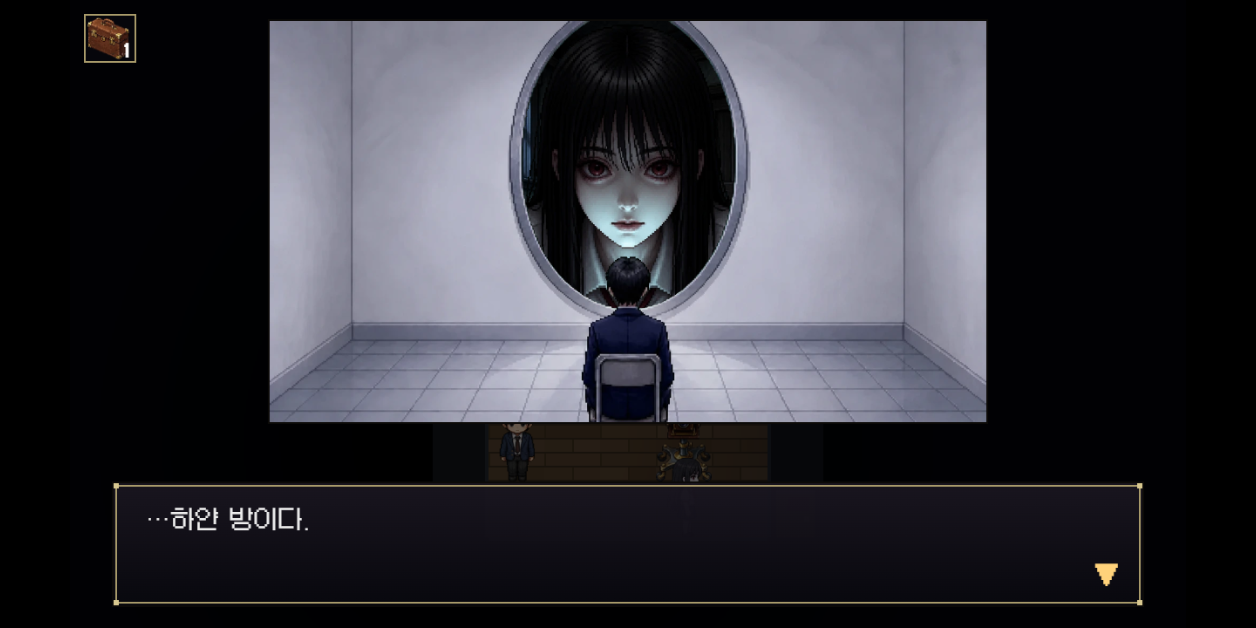
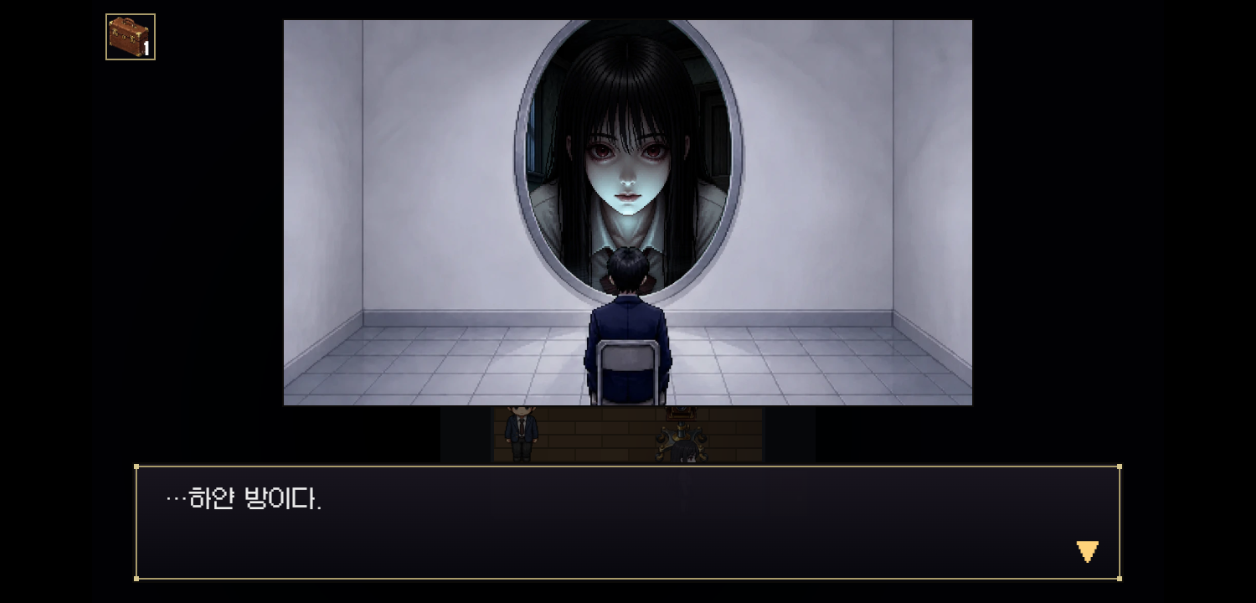
feat: 5장 별실 다듬기 (차례대로 움직임, 찢기 효과, 창 너머 윤하, 깨진 글씨 종이, 새 졸업사진)
- 주인공 → 사진기 → 윤하 순서로 한 번에 하나씩 움직임
- 간은 졸업사진이 나올 때 함께 떨어지고, 풀려난 뒤 직접 줍는다
- 찢기: 비스듬한 톱니 선을 따라 위에서부터 벌어지고 종이 속살 테두리가 보임
- 창 너머 윤하: 몸을 일으켜 돌아서서 방 안쪽으로 걸어가고, 걸어와서 다시 들여다봄
- 풀려난 뒤 윤하에게 묻기 → 주의사항 아랫부분이 깨진 글씨로 보임 (paper 미니게임)
- 졸업사진을 새 그림으로 바꾸고 제목과 이름을 명조체로, 크게 띄워 천천히 내려옴
- 기획: design/game-brief.md M9

diff --git a/src/minigames/ch5.js b/src/minigames/ch5.js
@@ -1,4 +1,4 @@
-// 5장 별실 (M9). 차례제 카메라, 큰 그림 보기와 찢기, 아이템 카드(설명과 회상).
+// 5장 별실 (M9). 차례제 카메라, 큰 그림 보기와 찢기, 아이템 카드(설명과 회상), 깨진 글씨 종이, 흰 방의 타원 창.
 // 경로와 문구 위치는 data/puzzles.json 의 m9, 글은 data/notes.json 에 있다. 기획: design/game-brief.md M9
 import { D, S, settings, T, VW, VH } from '../engine/core.js';
 import { pressed, consume, lastDir } from '../engine/input.js';
@@ -8,22 +8,46 @@ import { sfx } from '../engine/audio.js';
 import { W, DIRS, blocked, walk, npcById, scenes } from '../engine/world.js';
 import { pic } from '../engine/gfx.js';
 
+const smooth = k => k * k * (3 - 2 * k), clamp = k => Math.min(1, Math.max(0, k));
+const rnd = i => { const s = Math.sin(i * 127.1 + 3.3) * 43758.5453; return s - Math.floor(s); }; // 순서마다 늘 같은 값이 나오는 난수
+
 // 흰 방의 타원 창 너머 (cam_frame 그림의 투명한 타원 밑에 깔린다): 별실 배경 위에 윤하를 얹는다.
-// stare 빤히 들여다봄, away 옆으로 걸어 나감, back 돌아옴. 자리와 크기는 puzzles.m9.window
+// stare 빤히 들여다봄, away 몸을 일으켜 돌아서서 방 안쪽으로 걸어감, back 걸어와서 다시 들여다봄. 자리와 크기는 puzzles.m9.window
+const yunCache = {};
+function yunSprite(dark) { // 앞모습과, 돌아선 뒤의 어두운 뒷모습. 아래쪽은 귀신답게 흐려진다
+  const img = pic(D.puzzles.m9.window.yunha), key = dark ? 'd' : 'f';
+  if (!img) return null;
+  if (yunCache[key]) return yunCache[key];
+  const c = Object.assign(document.createElement('canvas'), { width: img.width, height: img.height }), g = c.getContext('2d');
+  g.drawImage(img, 0, 0);
+  if (dark) { // 뒷모습: 얼굴과 가슴을 긴 머리로 덮고, 양쪽 소매만 남긴다
+    const w = c.width, h = c.height;
+    g.globalCompositeOperation = 'source-atop'; g.fillStyle = '#0d0c12';
+    g.beginPath(); g.ellipse(w * 0.5, h * 0.3, w * 0.36, h * 0.36, 0, 0, 7); g.fill(); g.fillRect(w * 0.2, h * 0.3, w * 0.6, h);
+    g.fillStyle = '#1b1922'; for (let i = 0; i < 26; i++) g.fillRect(w * (0.22 + rnd(i) * 0.56), h * (0.12 + rnd(i + 40) * 0.2), 2, h * (0.3 + rnd(i + 80) * 0.5)); // 머리카락 결
+  }
+  g.globalCompositeOperation = 'destination-out';
+  const gr = g.createLinearGradient(0, c.height * 0.68, 0, c.height); gr.addColorStop(0, 'rgba(0,0,0,0)'); gr.addColorStop(1, 'rgba(0,0,0,1)');
+  g.fillStyle = gr; g.fillRect(0, c.height * 0.68, c.width, c.height * 0.32);
+  return (yunCache[key] = c);
+}
 function camWindow(phase) {
   return (ctx, x, y, w, h, t) => {
-    const o = D.puzzles.m9.window, room = pic(o.room), yun = pic(o.yunha);
+    const o = D.puzzles.m9.window, room = pic(o.room);
     const ox = x + w * o.box[0], oy = y + h * o.box[1], ow = w * o.box[2], oh = h * o.box[3];
     ctx.save(); ctx.beginPath(); ctx.rect(ox, oy, ow, oh); ctx.clip();
     ctx.fillStyle = '#0a0c12'; ctx.fillRect(ox, oy, ow, oh);
     if (room) { const k = Math.max(ow / room.width, oh / room.height); ctx.drawImage(room, ox + (ow - room.width * k) / 2, oy + (oh - room.height * k) / 2, room.width * k, room.height * k); }
-    if (yun) {
-      const e = k => k * k * (3 - 2 * k), go = Math.min(1, t / o.walk); // 걸어 나가거나 들어오는 정도
-      const off = phase === 'away' ? e(go) : phase === 'back' ? 1 - e(go) : 0, walking = phase !== 'stare' && go < 1;
-      const lean = phase === 'stare' ? Math.min(1, t / 6) * 0.06 : 0; // 들여다볼수록 조금씩 다가온다
-      const yh = oh * o.size * (1 + lean - off * 0.25), yw = yh * yun.width / yun.height;
-      const bob = walking ? Math.abs(Math.sin(t * 7)) * oh * 0.03 : Math.sin(t * 1.6) * oh * 0.006;
-      if (off < 1) ctx.drawImage(yun, ox + ow / 2 - yw / 2 + off * ow * 1.1, oy + oh * o.top - lean * oh * 0.3 + off * oh * 0.12 + bob, yw, yh);
+    const go = clamp(t / o.walk), u = phase === 'away' ? go : phase === 'back' ? 1 - go : 0; // 0 코앞, 1 방 안쪽으로 사라짐
+    const seg = (a, b) => smooth(clamp((u - a) / (b - a)));
+    const rise = seg(0, 0.2), turn = seg(0.18, 0.36), far = seg(0.32, 1); // 몸을 일으킴 → 돌아섬 → 걸어감
+    const spr = yunSprite(turn > 0.5);
+    if (spr && u < 1) {
+      const lean = phase === 'stare' ? Math.min(1, t / 6) * 0.05 : 0; // 들여다볼수록 조금씩 다가온다
+      const yh = oh * o.size * (1 + lean) * (1 - 0.14 * rise) * (1 - 0.62 * far), yw = yh * spr.width / spr.height * Math.abs(Math.cos(turn * Math.PI));
+      const step = far > 0 && far < 1 ? Math.abs(Math.sin(far * o.steps * Math.PI)) * oh * 0.03 * (1 - 0.6 * far) : Math.sin(t * 1.6) * oh * 0.005;
+      ctx.globalAlpha = 1 - seg(0.86, 1);
+      ctx.drawImage(spr, ox + ow * (0.5 + o.to[0] * far) - yw / 2, oy + oh * (o.top - 0.05 * rise - lean * 0.3 + o.to[1] * far) - step, yw, yh);
     }
     ctx.restore();
   };
@@ -39,9 +63,9 @@ export function stepsBetween([x0, y0], [x1, y1]) {
   return (x1 > x0 ? 'r' : x1 < x0 ? 'l' : '') + (y1 > y0 ? 'd' : y1 < y0 ? 'u' : '');
 }
 
-// 차례제 카메라 (M9). 주인공이 한 칸 움직일 때마다 윤하와 사진기도 정해진 길로 한 칸 움직인다.
+// 차례제 카메라 (M9). 주인공이 한 칸 움직이면, 사진기가 정해진 길로 한 칸, 그다음 윤하가 한 칸 움직인다 (한 번에 하나씩).
 // 돌려주는 값: 0 사진기가 마지막 칸에 도착함, 1 도중에 주인공이 사진기와 같은 칸에 섬
-// puzzles: camera [[x,y]…], yunha [[x,y]…], camId, yunhaId, headAt(사진기 길에서 머리가 찍히는 순서), liverAt(윤하 길에서 간을 줍는 순서)
+// puzzles: camera [[x,y]…], yunha [[x,y]…], camId, yunhaId, headAt(사진기 길에서 머리가 찍히는 순서)
 minigames.photo = c => open(done => {
   const pz = D.puzzles[c.puzzle], p = W.p;
   const cam = W.objs.find(o => o.id === pz.camId), yun = npcById(pz.yunhaId);
@@ -50,22 +74,23 @@ minigames.photo = c => open(done => {
   if (yun) Object.assign(yun, { x: pz.yunha[0][0], y: pz.yunha[0][1], moving: false, path: null });
 
   const flashShot = () => { sfx('shutter'); W.flashColor = '#fff'; W.flash = settings.scare ? 0.35 : 0.15; };
+  const pause = ms => new Promise(r => setTimeout(r, ms));
 
   async function step(dir) {
     acting = true;
     const [dx, dy] = DIRS[dir], onCam = p.x + dx === cam.x && p.y + dy === cam.y;
-    const moves = [walk(p, dir[0])];
+    await walk(p, dir[0]);
     if (!onCam) { // 사진기가 있는 칸으로 들어가면 그 자리에서 찍힌다. 사진기와 윤하는 움직이지 않는다
       turn++;
-      const y0 = pz.yunha[turn - 1], y1 = pz.yunha[turn];
-      if (yun && y1) { const s = stepsBetween(y0, y1); moves.push(walk(yun, s, 4 * s.length)); }
       const c1 = pz.camera[turn];
-      if (c1) { tween = { from: [cam.x, cam.y], to: c1, t: 0 }; moves.push(new Promise(r => (tween.done = r))); sfx('step'); }
+      if (c1) { await pause(pz.gap); sfx('wheel'); await new Promise(r => (tween = { from: [cam.x, cam.y], to: c1, t: 0, done: r })); }
+      if (!(p.x === cam.x && p.y === cam.y)) {
+        const y0 = pz.yunha[turn - 1], y1 = pz.yunha[turn];
+        if (yun && y1) { await pause(pz.gap); const s = stepsBetween(y0, y1); await walk(yun, s, 4 * s.length); }
+      }
     }
-    await Promise.all(moves);
     if (p.x === cam.x && p.y === cam.y) { flashShot(); return done(1); }
     if (turn === pz.headAt && !S.flags.c5_head) { flashShot(); S.flags.c5_head = 1; await say(T('@c5.headShot')); }
-    if (turn === pz.liverAt && !S.flags.c5_liver) { S.flags.c5_liver_y = 1; await say(T('@c5.liverPick')); }
     if (turn >= pz.camera.length - 1) return done(0);
     acting = false;
   }
@@ -74,9 +99,10 @@ minigames.photo = c => open(done => {
     kind: 'photo', pause: false, // 걷는 모습이 보이게 필드는 계속 돈다
     update(dt) {
       if (tween) {
-        tween.t = Math.min(1, tween.t + dt * 4);
-        cam.x = tween.from[0] + (tween.to[0] - tween.from[0]) * tween.t;
-        cam.y = tween.from[1] + (tween.to[1] - tween.from[1]) * tween.t;
+        tween.t = Math.min(1, tween.t + dt * 3);
+        const k = smooth(tween.t);
+        cam.x = tween.from[0] + (tween.to[0] - tween.from[0]) * k;
+        cam.y = tween.from[1] + (tween.to[1] - tween.from[1]) * k;
         if (tween.t >= 1) { [cam.x, cam.y] = tween.to; const r = tween.done; tween = null; r(); }
       }
       if (acting) return;
@@ -95,33 +121,46 @@ minigames.photo = c => open(done => {
   };
 });
 
-// 큰 그림 한 장을 화면 가득 보여 준다. c.photo 면 puzzles 의 photo 설정대로 주인공 이름을 얹고(졸업사진),
-// c.tear 면 그림이 세로로 찢어지며 닫힌다. 아니면 Space 로 닫는다
+// 큰 그림 한 장을 화면 가득 보여 준다. c.photo 면 puzzles 의 photo 설정대로 제목과 이름을 얹고(졸업사진),
+// c.scene 이면 그림의 투명한 곳 밑에 장면을 깔고, c.tear 면 그림이 비스듬히 찢어지며 닫힌다. 아니면 Space 로 닫는다
+const SERIF = '"Batang","AppleMyungjo","Noto Serif KR","Nanum Myeongjo",serif';
+const GARBLE = '렜귪봑궯뤏귑궬궠궔갃뷁쉛뛣';
 minigames.bigpic = c => open(done => {
   const ph = c.photo ? D.puzzles[c.photo].photo : null;
-  let t = 0, tearT = -1, cv = null;
-  const edge = Array.from({ length: 15 }, (_, i) => 0.5 + (i % 2 ? 0.035 : -0.035) + Math.sin(i * 12.9898) * 0.012); // 찢어지는 선 (가로 비율)
+  let t = 0, tearT = -1, cv = null, ripped = false;
+  // 찢어지는 선: 오른쪽 위에서 왼쪽 아래로. 큰 굴곡에 잔 톱니를 얹는다 (가로, 세로 비율)
+  const N = 46, edge = Array.from({ length: N + 1 }, (_, i) => [0.7 - 0.4 * (i / N) + (rnd(i) - 0.5) * 0.045 + Math.sin(i * 0.55) * 0.02 + (i % 2 ? 0.009 : -0.009), i / N]);
 
   function compose(img) { // 그림에 글자를 얹어 한 장으로 만든다
-    const k = Math.min((VW - 20) / img.width, (VH - 16) / img.height), w = Math.round(img.width * k), h = Math.round(img.height * k);
+    const k = ph ? ph.width / img.width : Math.min((VW - 20) / img.width, (VH - 16) / img.height), w = Math.round(img.width * k), h = Math.round(img.height * k);
     const cc = Object.assign(document.createElement('canvas'), { width: w * 2, height: h * 2 }), g = cc.getContext('2d');
     g.scale(2, 2); g.imageSmoothingQuality = 'high'; scenes[c.scene]?.(g, 0, 0, w, h, 99); g.drawImage(img, 0, 0, w, h);
-    if (ph) { // 가운데 사진 아래에 주인공 이름. 다른 학생들의 이름은 그림에 번진 채로 들어 있다
-      g.textAlign = 'center'; g.fillStyle = '#26242a';
-      font(g, Math.round(h * ph.nameSize), true); g.fillText(S.name, w * ph.name[0], h * ph.name[1]);
+    if (ph) { // 졸업사진: 제목, 가운데 사진 아래에 주인공 이름, 다른 학생들의 이름은 번져서 읽을 수 없다
+      g.textAlign = 'center'; g.fillStyle = ph.ink;
+      g.font = `bold ${h * ph.titleSize}px ${SERIF}`; g.fillText(T(ph.title), w * 0.5, h * ph.titleY);
+      g.font = `bold ${h * ph.nameSize}px ${SERIF}`; g.fillText(S.name, w * ph.name[0], h * ph.name[1]);
+      g.filter = 'blur(0.7px)'; g.globalAlpha = 0.8;
+      ph.others.forEach(([fx, fy], i) => g.fillText([0, 1, 2].map(j => GARBLE[Math.floor(rnd(i * 3 + j) * GARBLE.length)]).join(''), w * fx, h * fy));
+      g.filter = 'none'; g.globalAlpha = 1;
     }
     return Object.assign(cc, { dw: w, dh: h });
   }
+  const rip = (g, w, h) => { g.beginPath(); edge.forEach(([fx, fy], i) => g[i ? 'lineTo' : 'moveTo'](w * fx, h * fy)); };
 
   return {
     kind: 'bigpic',
     update(dt) {
       t += dt;
-      if (tearT >= 0) { if ((tearT += dt) > 1.1) done(true); return; }
+      if (tearT >= 0) {
+        tearT += dt;
+        if (tearT > 0.9 && !ripped) { ripped = true; sfx('tear'); if (settings.shake) W.shake = 0.5; } // 두 조각이 떨어져 나가는 순간
+        if (tearT > 2) done(true);
+        return;
+      }
       const go = pressed('ok') || pressed('cancel');
       if (go) { consume('ok'); consume('cancel'); }
       if (!cv) return;
-      if (c.tear) { if (t > 1.2 || (go && t > 0.4)) { tearT = 0; sfx('tear'); if (settings.shake) W.shake = 0.5; } }
+      if (c.tear) { if (t > 1.2 || (go && t > 0.4)) { tearT = 0; sfx('tear'); if (settings.shake) W.shake = 0.3; } }
       else if (go && t > 0.4) done(true);
     },
     draw(ctx) {
@@ -129,24 +168,75 @@ minigames.bigpic = c => open(done => {
       const img = pic(c.image);
       if (!img) return;
       cv ||= compose(img);
-      const w = cv.dw, h = cv.dh, x = (VW - w) / 2, y = (VH - h) / 2;
+      const w = cv.dw, h = cv.dh, x = (VW - w) / 2;
+      const y = ph ? 8 + (Math.min(8, VH / 2 - h * ph.focus) - 8) * smooth(clamp((t - 1) / 2.5)) : (VH - h) / 2;
       ctx.imageSmoothingEnabled = true;
       if (tearT < 0) ctx.drawImage(cv, x, y, w, h);
-      else { // 찢어지는 선을 따라 두 조각으로 잘라 양옆으로 벌린다
-        const k = Math.min(1, tearT / 0.9), e = 1 - Math.pow(1 - k, 2);
+      else {
+        // 1) 위쪽부터 벌어진다 (선의 아래 끝을 축으로 양쪽이 돌아간다)  2) 두 조각이 뜯겨 양옆으로 떨어진다
+        const a = smooth(clamp(tearT / 0.9)), b = clamp((tearT - 0.9) / 1.1), eb = 1 - Math.pow(1 - b, 2);
+        const [hx, hy] = [edge[N][0] * w, h];
+        ctx.save(); ctx.translate(x, y);
+        if (b === 0) { // 벌어진 틈으로 빛이 샌다
+          rip(ctx, w, h); ctx.strokeStyle = `rgba(255,255,255,${0.9 * a})`; ctx.lineWidth = 3 + 22 * a; ctx.shadowColor = '#fff'; ctx.shadowBlur = 18 * a; ctx.stroke(); ctx.shadowBlur = 0;
+        }
         for (const side of [-1, 1]) {
           ctx.save();
-          ctx.translate(x + w / 2 + side * e * 70, y + h / 2 + e * 24); ctx.rotate(side * e * 0.14); ctx.translate(-w / 2, -h / 2);
-          ctx.beginPath(); ctx.moveTo(side < 0 ? 0 : w, 0);
-          edge.forEach((fx, i) => ctx.lineTo(w * fx, h * i / (edge.length - 1)));
-          ctx.lineTo(side < 0 ? 0 : w, h); ctx.closePath(); ctx.clip();
-          ctx.globalAlpha = 1 - Math.max(0, k - 0.7) / 0.3;
+          ctx.translate(side * eb * 96, eb * eb * 46);
+          ctx.translate(hx, hy); ctx.rotate(side * (0.045 * a + 0.16 * eb)); ctx.translate(-hx, -hy);
+          ctx.beginPath(); ctx.moveTo(side < 0 ? -w : 2 * w, -h);
+          edge.forEach(([fx, fy]) => ctx.lineTo(w * fx, h * fy));
+          ctx.lineTo(side < 0 ? -w : 2 * w, 2 * h); ctx.closePath(); ctx.clip();
+          ctx.globalAlpha = 1 - clamp((b - 0.65) / 0.35);
           ctx.drawImage(cv, 0, 0, w, h);
+          // 찢긴 가장자리: 종이 속살이 드러난 누런 테두리
+          rip(ctx, w, h); ctx.lineJoin = 'round';
+          ctx.strokeStyle = '#8f7a56'; ctx.lineWidth = 9; ctx.stroke();
+          ctx.strokeStyle = '#cdb98e'; ctx.lineWidth = 6; ctx.stroke();
+          ctx.strokeStyle = '#efe4c8'; ctx.lineWidth = 2.5; ctx.stroke();
           ctx.restore();
         }
+        ctx.restore();
       }
       ctx.imageSmoothingEnabled = false;
       if (tearT < 0 && !c.tear && t > 0.8) { font(ctx, 12); ctx.textAlign = 'right'; ctx.fillStyle = '#aaa'; ctx.fillText(T(c.prompt) || 'Space: 닫기', VW - 12, VH - 10); ctx.textAlign = 'left'; }
+    },
+  };
+});
+
+// 종이 한 장을 보여 준다 (c.note). 쪽지의 glitch 에 든 글자들은 깨진 글씨로 계속 바뀌며 떨린다
+minigames.paper = c => open(done => {
+  const n = D.notes[c.note], bad = new Set(n.glitch || ''), X = 170, Y = 60, PW = 300, PH = 216;
+  const lines = n.text.split('\n').flatMap(l => (l ? wrap(l, PW - 44, 14) : ['']));
+  let t = 0;
+  return {
+    kind: 'paper',
+    update(dt) {
+      t += dt;
+      if ((pressed('ok') || pressed('cancel')) && t > 0.5) { consume('ok'); consume('cancel'); sfx('blip'); done(true); }
+    },
+    draw(ctx) {
+      ctx.fillStyle = `rgba(0,0,0,${Math.min(0.7, t * 3)})`; ctx.fillRect(0, 0, VW, VH);
+      ctx.fillStyle = '#d6cbb2'; ctx.beginPath(); ctx.moveTo(X, Y + 10); // 위쪽이 찢긴 종이
+      for (let i = 0; i <= 20; i++) ctx.lineTo(X + PW * i / 20, Y + 4 + rnd(i + 60) * 12);
+      ctx.lineTo(X + PW, Y + PH); ctx.lineTo(X, Y + PH); ctx.closePath(); ctx.fill();
+      ctx.fillStyle = 'rgba(90,60,30,.10)'; ctx.fillRect(X, Y + PH - 40, PW, 40);
+      font(ctx, 14);
+      const tick = Math.floor(t * 9);
+      lines.forEach((l, li) => {
+        let px = X + 22; const py = Y + 50 + li * 22;
+        [...l].forEach((ch, ci) => {
+          const wch = ctx.measureText(ch).width;
+          if (bad.has(ch)) {
+            const g = GARBLE[Math.floor(rnd(tick * 7 + li * 31 + ci) * GARBLE.length)], j = (rnd(tick + ci) - 0.5) * 2;
+            ctx.fillStyle = 'rgba(190,30,40,.75)'; ctx.fillText(g, px - 1 + j, py + j);
+            ctx.fillStyle = 'rgba(30,60,160,.6)'; ctx.fillText(g, px + 1.5, py);
+            ctx.fillStyle = '#2a211c'; ctx.fillText(g, px, py + (rnd(tick * 3 + ci) > 0.8 ? 2 : 0));
+          } else { ctx.fillStyle = '#3a2f26'; ctx.fillText(ch, px, py); }
+          px += wch;
+        });
+      });
+      if (t > 0.5 && (performance.now() / 400 | 0) % 2) { font(ctx, 12); ctx.fillStyle = '#7a5a2a'; ctx.fillText('▼', X + PW - 22, Y + PH - 10); }
     },
   };
 });
@@ -184,7 +274,7 @@ minigames.itemcard = c => open(done => {
         ctx.globalAlpha = 1; ctx.fillStyle = g; ctx.fillRect(0, 0, VW, VH);
       }
       ctx.globalAlpha = 1;
-      if (t > 0.5 && (performance.now() / 400 | 0) % 2) { font(ctx, 12); ctx.fillStyle = '#ffd27a'; ctx.fillText('▼', X + BW - 22, Y + BH - 12); }
+      if (t > 0.5 && (performance.now() / 400 | 0) % 2) { font(ctx, 12); ctx.fillStyle = '#7a5a2a'; ctx.fillText('▼', X + BW - 22, Y + BH - 12); }
     },
   };
 });

diff --git a/src/engine/audio.js b/src/engine/audio.js
@@ -18,6 +18,7 @@ const P = {
   glass: ['noise', 9000, 2500, 0.35, 0.7],
   scream: ['sawtooth', 500, 1400, 0.7, 0.45],
   shutter: ['noise', 7000, 500, 0.09, 0.6],
+  wheel: ['noise', 900, 260, 0.22, 0.35],
   tear: ['noise', 5200, 700, 0.75, 0.65],
 };
 
